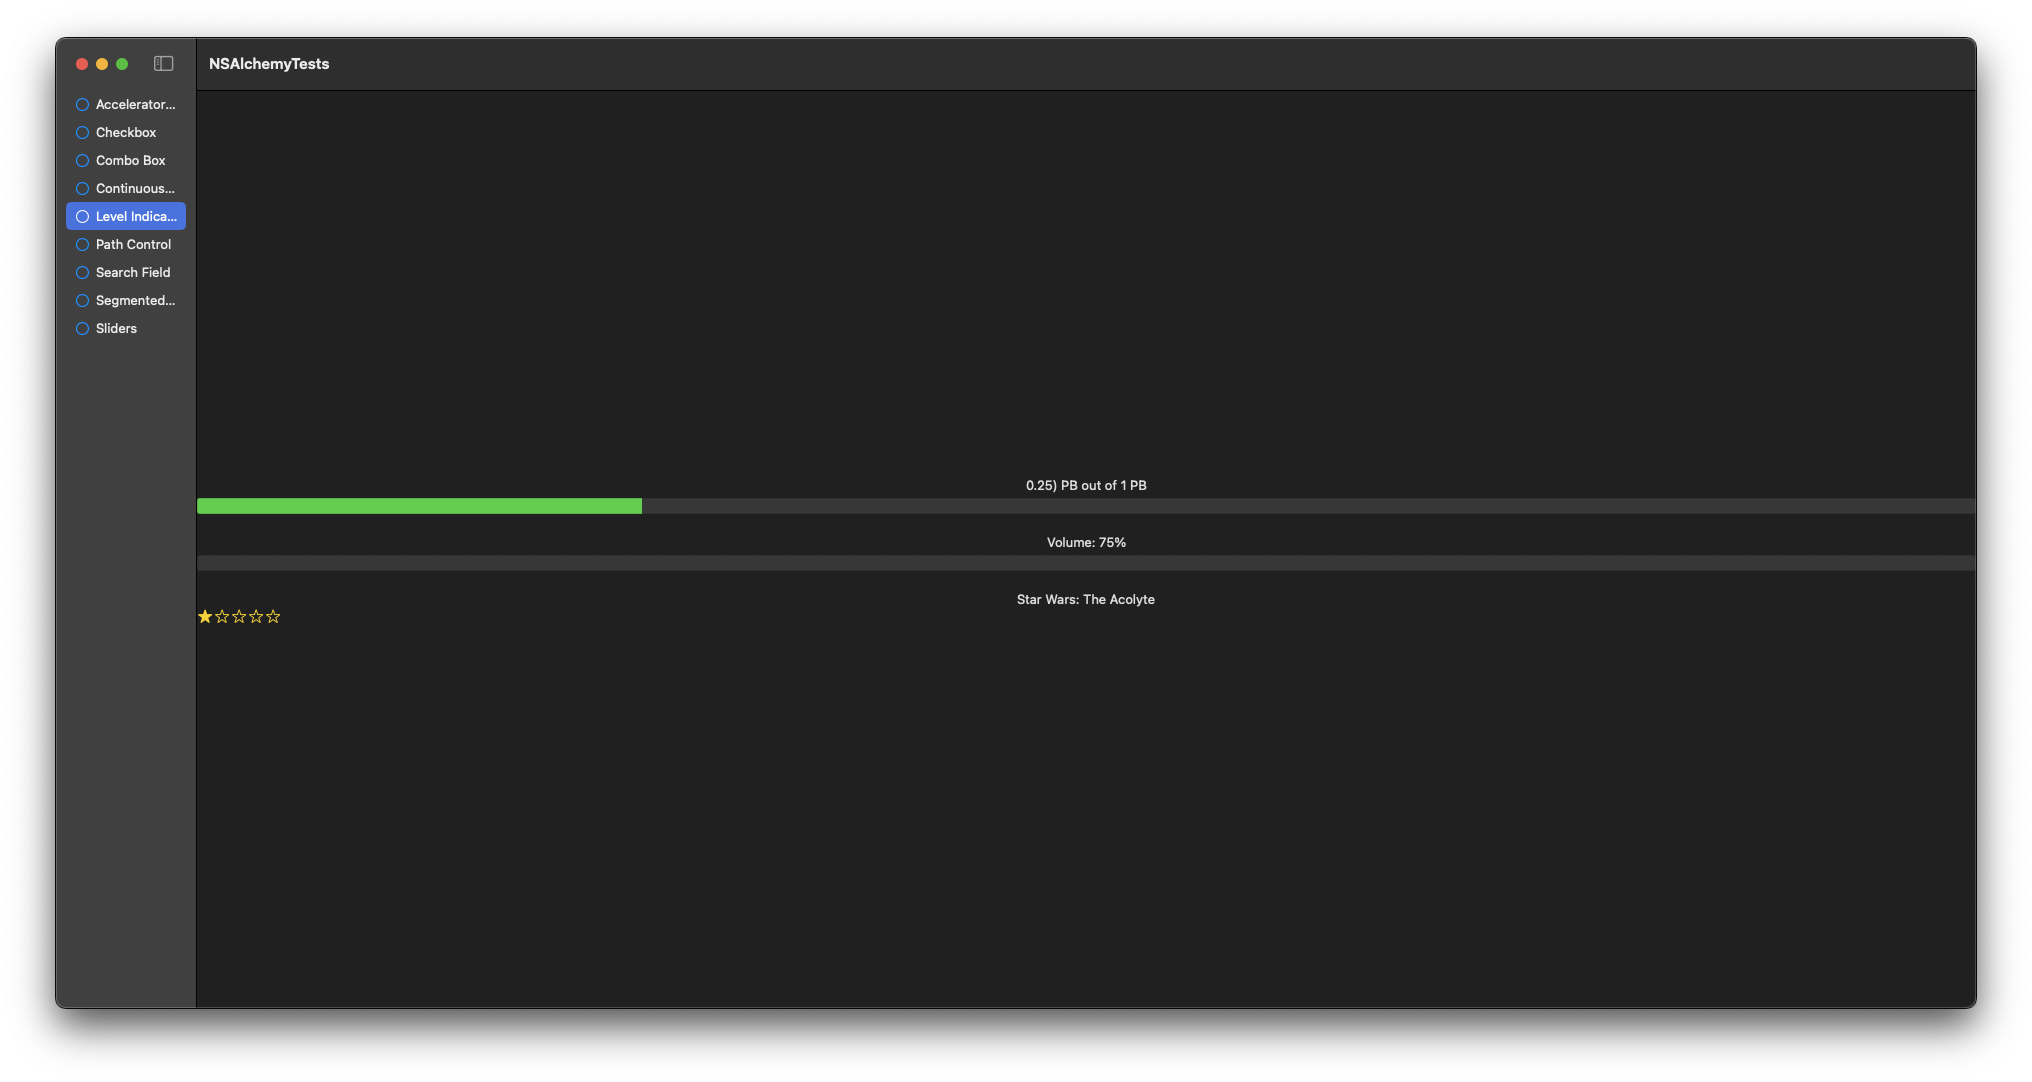
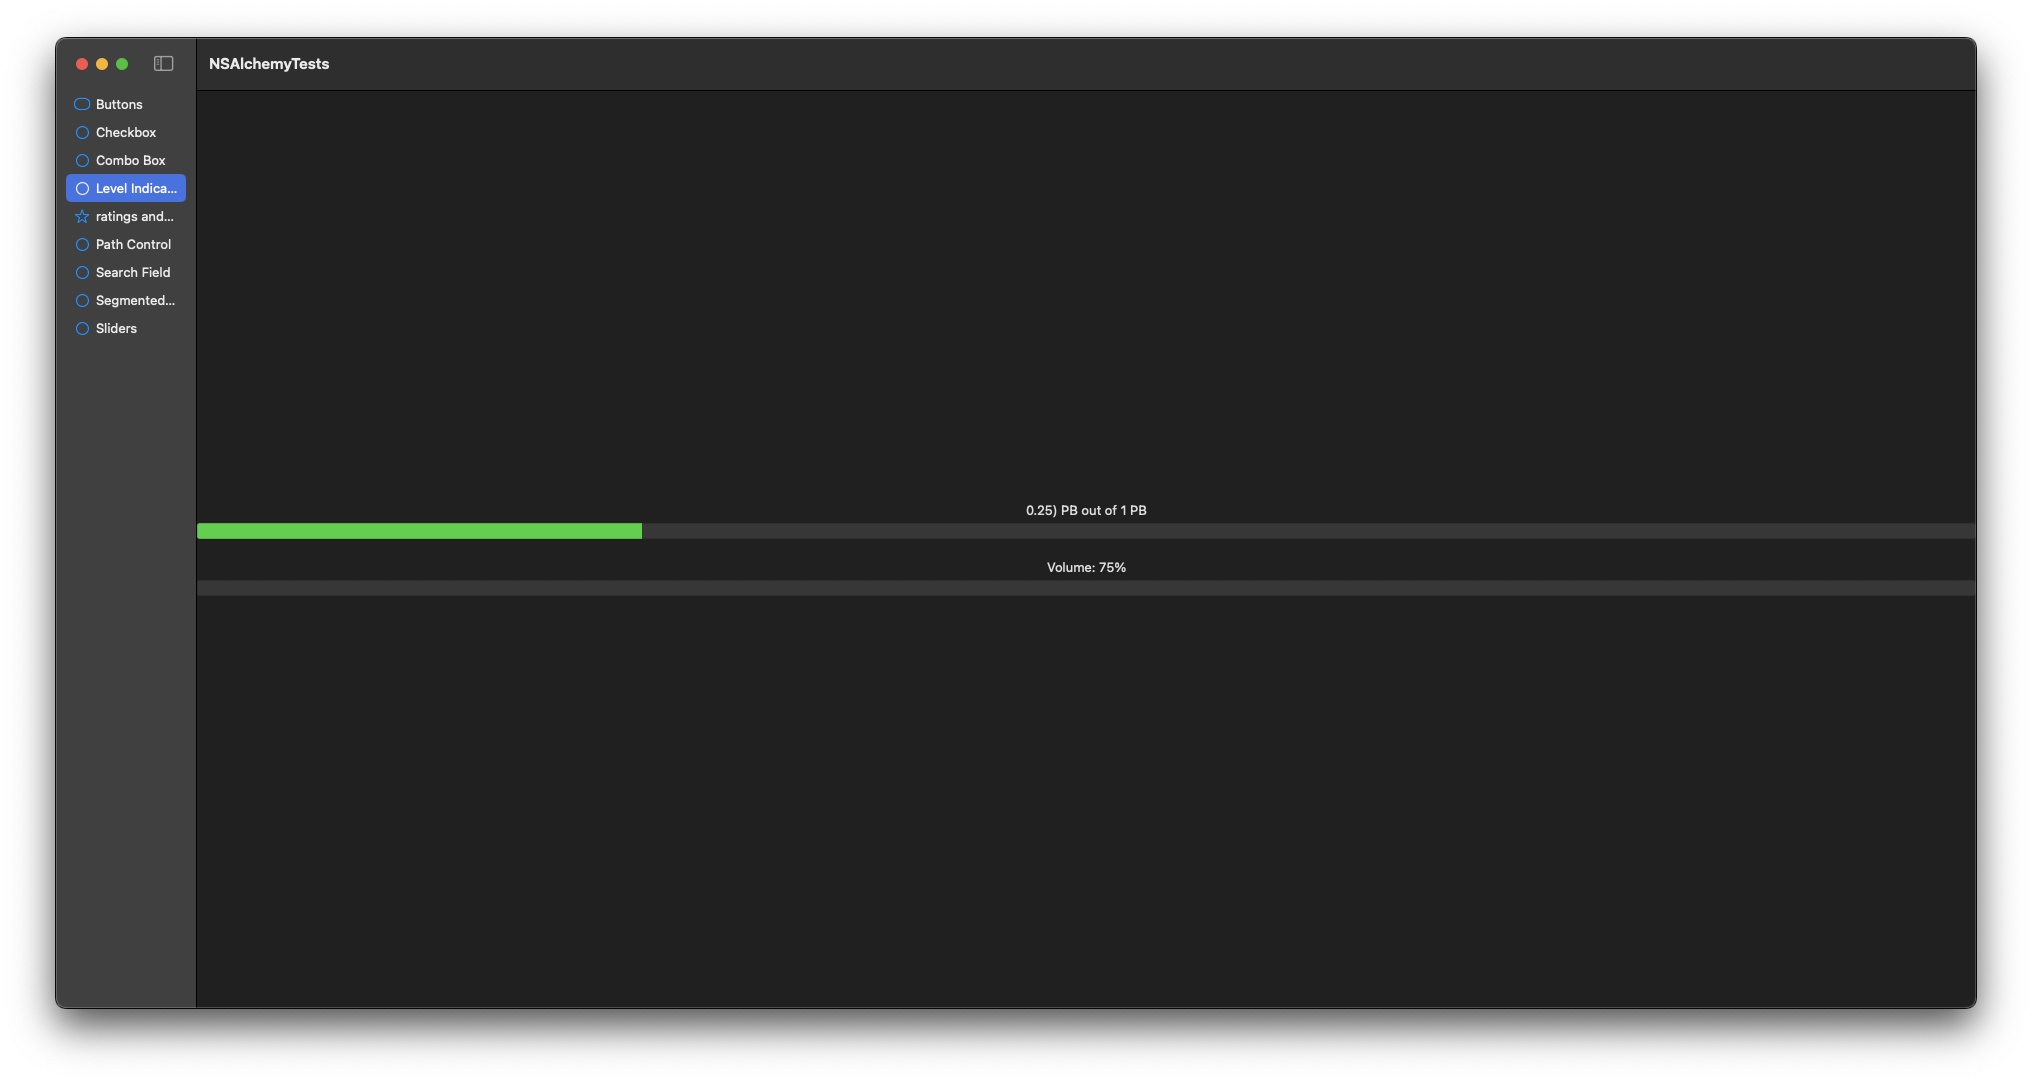
Final commit for 1.2 release

diff --git a/README.md b/README.md
@@ -4,11 +4,11 @@
 ### What is NSAlchemy?
 
 NSAlchemy is a Swift package that contains SwiftUI views from AppKit that SwiftUI doesn't support out of the box, or implementations of views that SwiftUI does natively support, but aren't as customizable.
-As of April 25, 2025, the package contains the following views:
+As of June 4, 2025, the package contains the following views and environment keys:
 - HSlider: A horizontal slider with various customization options including tick marks and the ability to change the track color.
 - VSlider: A vertical slider that has the same customization options as HSlider, but is oriented vertically.
 - CircularSlider: A Circular slider that has a few options to customize it, but not as much as the previous mentioned ones. This slider acts much more like a knob.
-- LevelIndicator: A view that can reflect capacity levels or ratings. This view contains many customizations, including the ability to change the colors for warning and critical levels for the capacity style indicator and the ability to use custom assets for the rating images.
+- LevelIndicator: A view that can reflect capacity levels or ratings. This view contains many customizations, including the ability to change the colors for warning and critical levels for the capacity style indicator.
 - PathControl: A simple view that displays a visual representation of the path to a file.
 - ComboBox: A view that combines a text field and a pulldown list for selection between multiple options.
 - Checkbox: Though SwiftUI supports checkboxes natively, this one supports on, off and mixed states.
@@ -16,6 +16,18 @@ As of April 25, 2025, the package contains the following views:
 - ContinuousButton: A button that executes it's action after an optional delay and then at a provided interval
 - SearchField: Though SwiftUI has the searchable modifier, it lacks a dedicated search field
 - SegmentedControl: Though SwiftUI supports segmented controls through a picker style, it's not very customizable and it doesn't support multiple selections like this one does.
+- RatingIndicator: A view used to display a rating value
+- RatingControl: A view for displaying and editing a rating value
+- RelevancyIndicator: A view to display the relevancy of something, especially in search results
+- FlexibleButton: A button that has a flexible height
+- DisclosureTriangleButton: A button that acts as a disclosure triangle
+- DisclosureButton: A button that is primarily used to toggle the display of a view related to another view, like in a file dialog.
+- CircularButton: A button for displaying a singular character or image in a button shaped like a circle
+- BadgeButton: A button for displaying additional information in the form of a badge
+- AccessoryBarToggleButton: A button used in accessory bars to toggle filters for lists or tables
+- AccessoryBarActionButton: A button used in accessory bars to execute some kind of action, instead of acting like a toggle
+- A fileDialog environment key to summon open and save file/directory dialogs
+A localAuthenticator environment key to ask for biometric or password authentication
 
 # Installation Instructions
 
@@ -95,14 +107,6 @@ struct LevelIndicatorsView: View {
 					.indicatorFill(color: .green)
 					.indicatorWarning(fraction: 0.70, color: .yellow)
 					.indicatorCritical(value: 0.80, color: .red)
-			}
-			
-			VStack(spacing: 5) {
-				Text("Star Wars: The Acolyte")
-				
-				LevelIndicator("Media Rating", value: 1, minValue: 0, maxValue: 5, ratingImageSymbol: "star.fill", ratingPlaceholderImageSymbol: "star", placeholderVisibility: .always)
-					.indicatorStyle(.rating)
-					.indicatorFill(color: .yellow)
 			}
 		}
 	}
@@ -364,3 +368,200 @@ struct SearchFieldView: View {
 ```
 
 ![A macOS app displaying a sidebar and a detail view showing the results of the above code snippet](Screenshots/SearchField.png)
+
+### RatingControl, RatingIndicator and RelevancyIndicator
+
+```swift
+struct RatingAndRelevancyIndicatorsView: View {
+	@State private var rating: Double = 0.28
+	
+	var body: some View {
+		VStack(spacing: 50) {
+			VStack {
+				Text("Star Wars: The Acolyte")
+				
+				RatingIndicator(
+					"Rating of Star Wars: The Acolyte",
+					value: rating,
+					min: 0,
+					max: 5,
+					image: .symbol("star.fill"),
+					placeholderImage: .symbol("star")
+				)
+				
+			}
+			
+			VStack {
+				Text("Star Wars: The Acolyte")
+				
+				RatingControl(
+					"Rating of Star Wars: The Acolyte",
+					value: $rating,
+					min: 0,
+					max: 5,
+					image: .symbol("star.fill"),
+					placeholderImage: .symbol("star")
+				)
+			}
+			
+			HStack {
+				RelevancyIndicator("Relevancy of Linux", value: 0.25, min: 0, max: 1)
+				
+				Text("Relevancy of Linux")
+			}
+		}
+	}
+}
+```
+
+![A macOS app displaying a sidebar and a detail view showing the results of the above code snippet](Screenshots/RatingAndRelevancyIndicators.png)
+
+### FlexibleButton
+
+```swift
+struct FlexibleButtonsView: View {
+	var body: some View {
+		VStack {
+			FlexibleButton("This is a flexible height button with a long title", image: .noImage) {
+				print("Hello, World")
+			}
+			
+			FlexibleButton("Share", image: .symbol("square.and.arrow.up"), position: .leading) {
+				print("Sharing...")
+			}
+			FlexibleButton("Share", image: .symbol("square.and.arrow.up"), position: .trailing) {
+				print("Sharing...")
+			}
+			
+			FlexibleButton("Share", image: .symbol("square.and.arrow.up"), position: .top) {
+				print("Sharing...")
+			}
+			
+			FlexibleButton("Share", image: .symbol("square.and.arrow.up"), position: .bottom) {
+				print("Sharing...")
+			}
+			
+			FlexibleButton("Share", image: .symbol("square.and.arrow.up"), position: .left) {
+				print("Sharing...")
+			}
+			
+			FlexibleButton("Share", image: .symbol("square.and.arrow.up"), position: .right) {
+				print("Sharing...")
+			}
+			
+			FlexibleButton("Share", image: .symbol("square.and.arrow.up"), position: .overlap) {
+				print("Sharing...")
+			}
+		}
+	}
+}
+```
+
+![A macOS app displaying a sidebar and a detail view showing the results of the above code snippet](Screenshots/FlexibleButtons.png)
+
+### GradientButton
+
+```swift
+struct GradientButtonView: View {
+	var body: some View {
+		VStack(spacing: 0) {
+			SearchFieldView()
+			
+			GradientButton("Add Movie", image: .symbol("plus"),) {
+				print("Add a Movie to the table")
+			}
+		}
+	}
+}
+```
+
+![A macOS app displaying a sidebar and a detail view showing the results of the above code snippet](Screenshots/GradientButton.png)
+
+### DisclosureTriangleButton and DisclosureButton
+
+```swift
+struct DisclosureButtonsView: View {
+	@State private var disclosureTriangleToggle1: Bool = true
+	@State private var disclosureTriangleToggle2: Bool = false
+	@State private var disclosureToggle1: Bool = true
+	@State private var disclosureToggle2: Bool = false
+	
+	
+	var body: some View {
+		VStack {
+			HStack {
+				DisclosureTriangleButton(disclosureTriangleToggle1 ? "Hide Details" : "Show Details", isOn: $disclosureTriangleToggle1)
+				Text(disclosureTriangleToggle1 ? "Hide Details" : "Show Details")
+			}
+			
+			HStack {
+				DisclosureTriangleButton(disclosureTriangleToggle2 ? "Hide Details" : "Show Details", isOn: $disclosureTriangleToggle2)
+				Text(disclosureTriangleToggle2 ? "Hide Details" : "Show Details")
+			}
+			
+			DisclosureButton(disclosureToggle1 ? "Hide" : "Show", isOn: $disclosureToggle1)
+			DisclosureButton(disclosureToggle2 ? "Hide" : "Show", isOn: $disclosureToggle2)
+		}
+	}
+}
+```
+
+![A macOS app displaying a sidebar and a detail view showing the results of the above code snippet](Screenshots/DisclosureButtons.png)
+
+### CircularButton
+
+```swift
+struct CircularButtonsView: View {
+	var body: some View {
+		VStack {
+			CircularButton("S", accessibilityLabel: "Save") {
+				print("Saving...")
+			}
+			
+			CircularButton("Save", image: .symbol("square.and.arrow.down")) {
+				print("Saving...")
+			}
+		}
+	}
+}
+```
+
+![A macOS app displaying a sidebar and a detail view showing the results of the above code snippet](Screenshots/CircularButtons.png)
+
+### BadgeButton
+
+```swift
+struct BadgeButtonView: View {
+	var body: some View {
+		BadgeButton("Badge Button") {
+			print("Hello, World")
+		}
+	}
+}
+```
+
+![A macOS app displaying a sidebar and a detail view showing the results of the above code snippet](Screenshots/BadgeButton.png)
+
+### AccessoryBarToggleButton and AccessoryBarActionButton
+
+```swift
+struct AccessoryBarButtonsView: View {
+	@State private var filterByPrequels: Bool = true
+	@State private var filterByOriginals: Bool = false
+	@State private var filterBySequels: Bool = false
+	
+	var body: some View {
+		HStack {
+			AccessoryBarToggleButton("Prequel Trilogy", isOn: $filterByPrequels)
+			AccessoryBarToggleButton("Original Trilogy", isOn: $filterByOriginals)
+			AccessoryBarToggleButton("Sequel Trilogy", isOn: $filterBySequels)
+		
+			AccessoryBarActionButton("Apply Filters") {
+				print("Applying Filters...")
+			}
+		}
+	}
+}
+```
+
+![A macOS app displaying a sidebar and a detail view showing the results of the above code snippet](Screenshots/AccessoryBarButtons.png)
